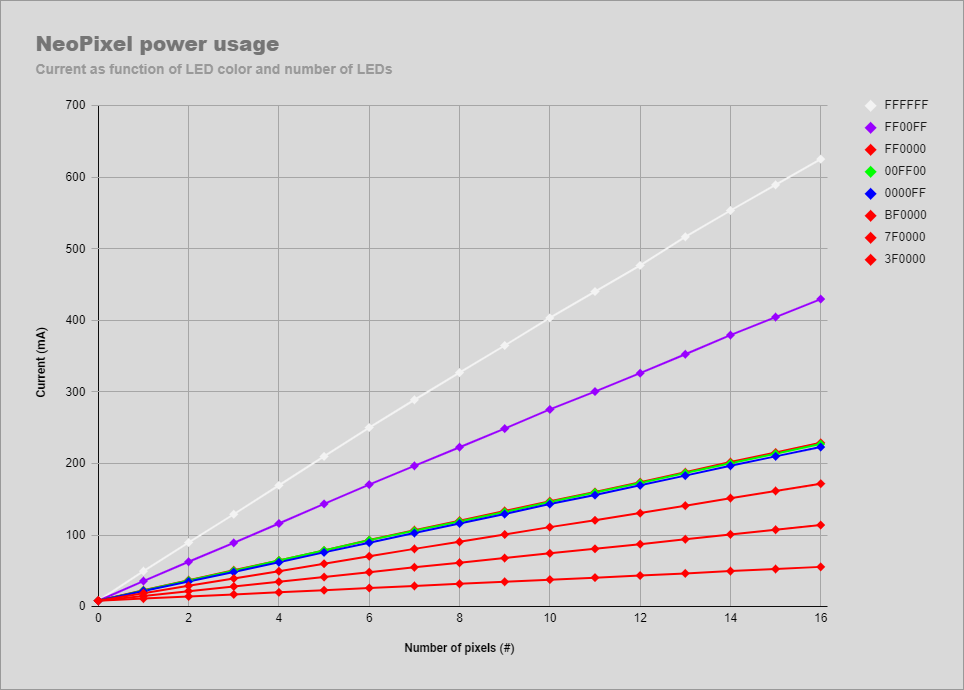
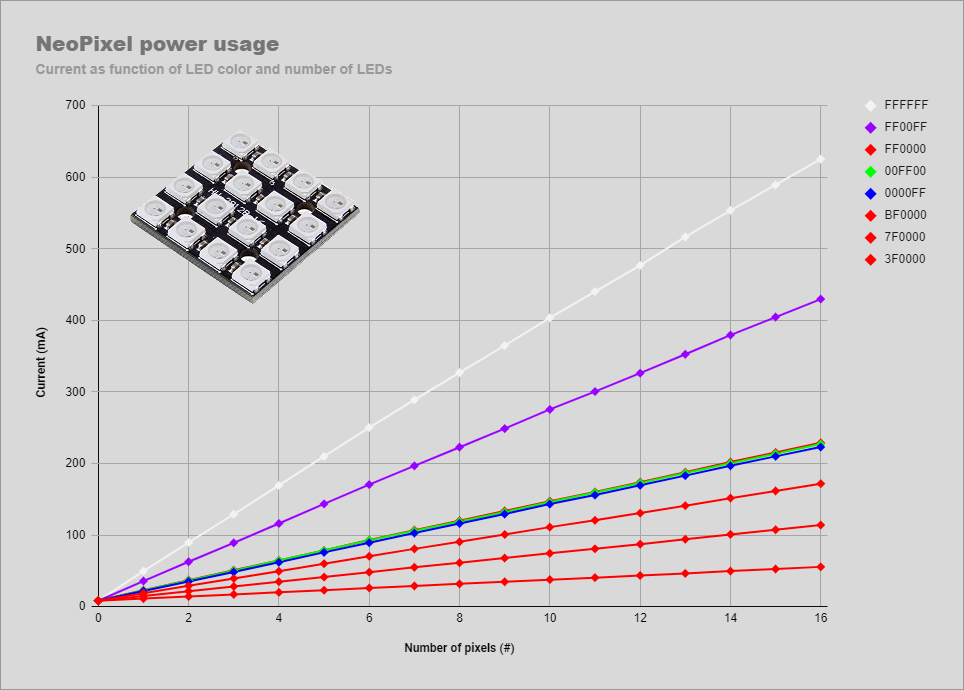
moved power estimate

Changed region(s): [[0.1245, 0.213, 0.3734, 0.4565]]

diff --git a/README.md b/README.md
@@ -200,6 +200,27 @@ Conclusions:
  - A 8×8 at full white will likely consume 64×3×12.9 + 64×0.5 = 2509 mA or 2.5 A.
 
 
+For the final product, the power usage can be estimated as follows..
+Let's assume the display shows 17 characters (TIEN VOOR HALF NEGEN), 
+each in a primary color (red, green, blue), and each at 20%.
+This comes close to the default configuration.
+Recall that a 100% / LED consumes 13mA, the 64 NeoPixels have standby current of 32mA and the ESP8266 NodeMCU
+uses 80mA. This results in an operating current of 20% × 13 × 17 + 32 + 80 ≈ 156 mA.
+This is well within standard USB specification, which says 500mA max.
+
+The mist animation switches nearly all pixels on, to gray.
+The default mist color is 0x222222, which means 0x22 or 34 per color channel. This is 34/255 or 13% of full power.
+During mist, the pixels vary from 13% to 0%,so let's estimate 7% average for 50 pixels for all three LEDs (gray).
+This means the power estimate is 7% × 13 × 50 × 3 + 32 + 80 ≈ 250 mA.
+Still half of the max USB spec (500mA).
+
+This figures match quite well with actuals. We measure 148 where we estimated 156, and we measure 247 where we estimated 250.
+
+![Time](imgs/power-act1.jpg)  ![Animation](imgs/power-act2.jpg)
+
+
+
+
 
 ## 6. Model 3
 
@@ -724,24 +745,9 @@ When running the clock app, pressing the button toggles between normal clock mod
 
 Finally the USB connector has dual use.
 Its main use is power supply to the WordClock.
-
-The power usage can be estimated as follows, see also the section on [power](#9-Power-architecture).
-Let's assume the display shows 17 characters (TIEN VOOR HALF NEGEN), 
-each in a primary color (red, green, blue), and each at 20%.
-This comes close to the default configuration.
-Recall that a 100% / LED consumes 13mA, the 64 NeoPixels have standby current of 32mA and the ESP8266 NodeMCU
-uses 80mA. This results in an operating current of 20% × 13 × 17 + 32 + 80 ≈ 156 mA.
-This is well within standard USB specification, which says 500mA max.
-
-The mist animation switches nearly all pixels on, to gray.
-The default mist color is 0x222222, which means 0x22 or 34 per color channel. This is 34/255 or 13% of full power.
-During mist, the pixels vary from 13% to 0%,so let's estimate 7% average for 50 pixels for all three LEDs (gray).
-This means the power estimate is 7% × 13 × 50 × 3 + 32 + 80 ≈ 250 mA.
-Still half of the max USB spec (500mA).
-
-This figures match quite well with actuals. We measure 148 where we estimated 156, and we measure 247 where we estimated 250.
-
-![Time](imgs/power-act1.jpg)  ![Animation](imgs/power-act2.jpg)
+For normal usage standard 500mA USB is more than sufficient.
+If you want all LEDs full bright white, you would need 2500mA.
+The power usage can be estimated, see section on [power](#5-NeoPixel-power).
 
 The second use of the USB connector is software development.
 When the USB connector is connected to a PC, and a CH340 USB to serial driver is installed, 
